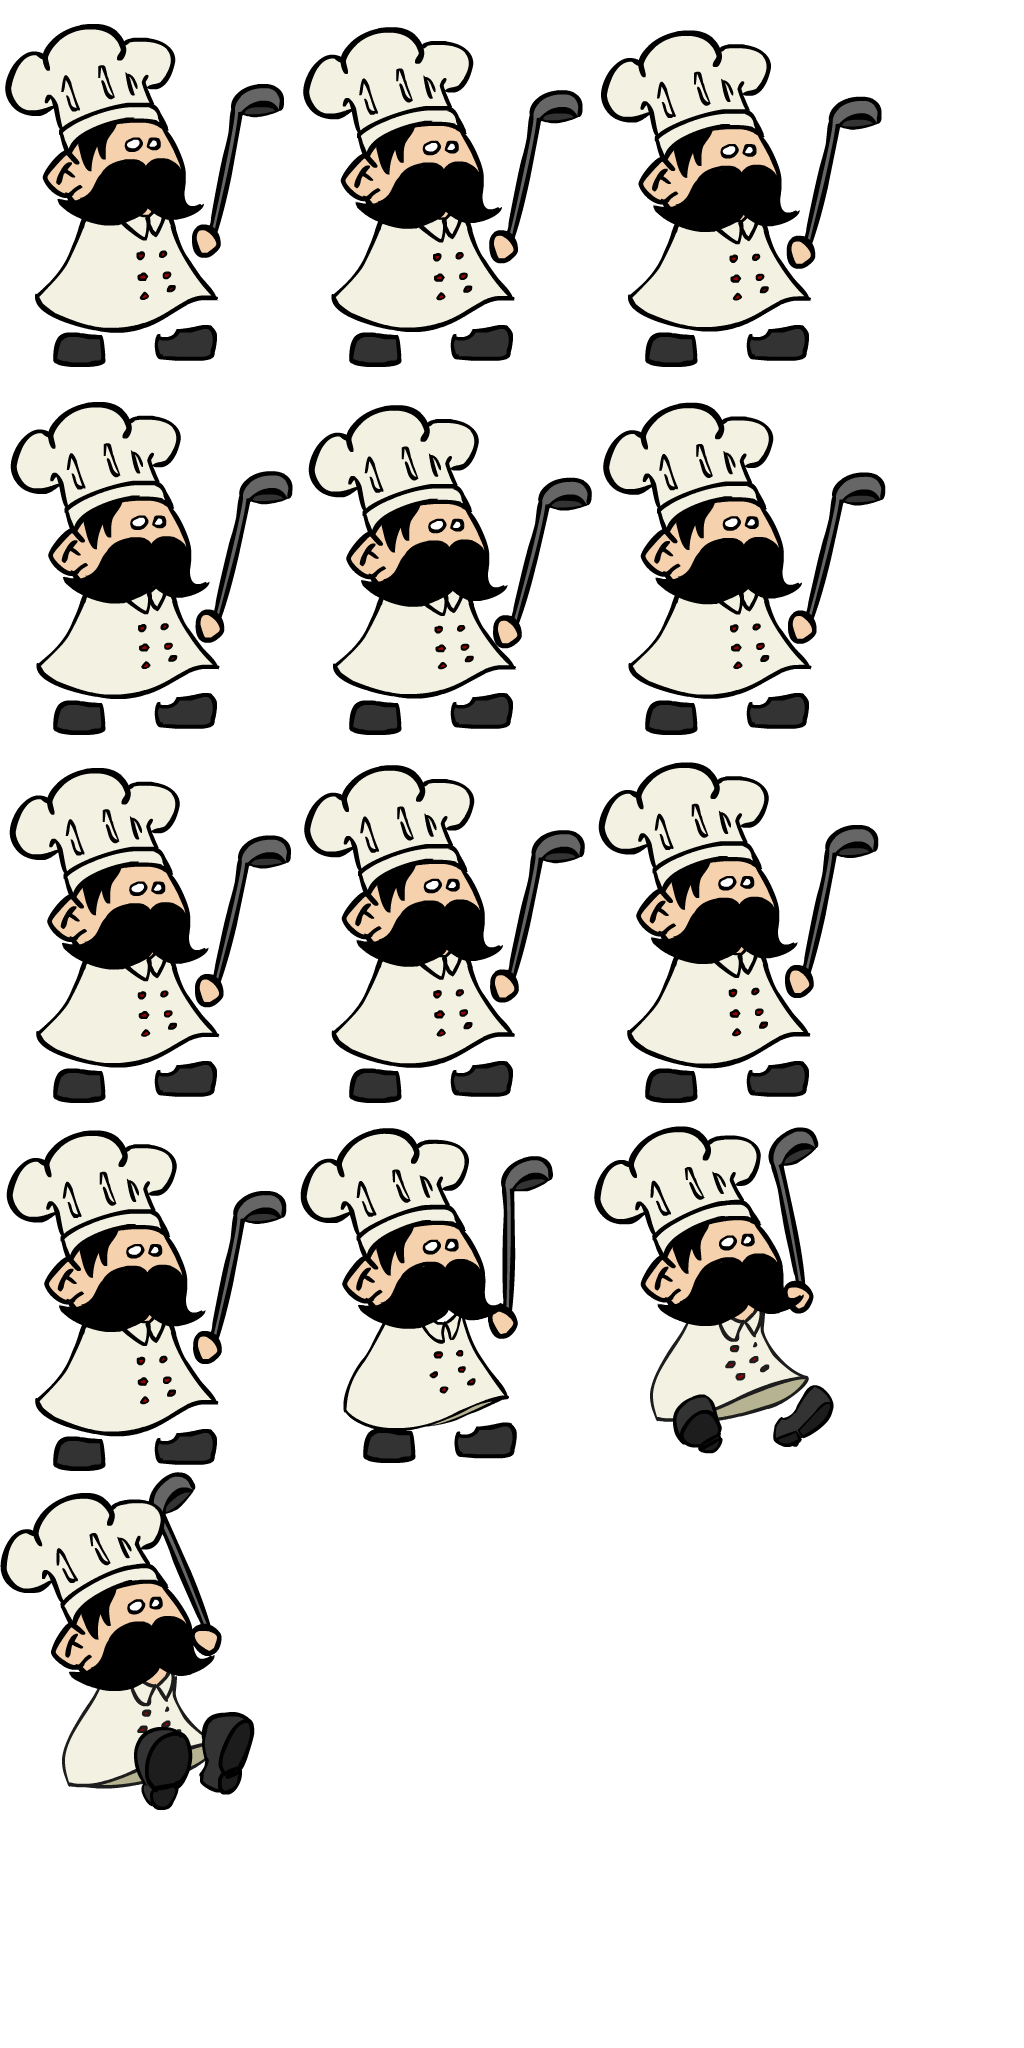
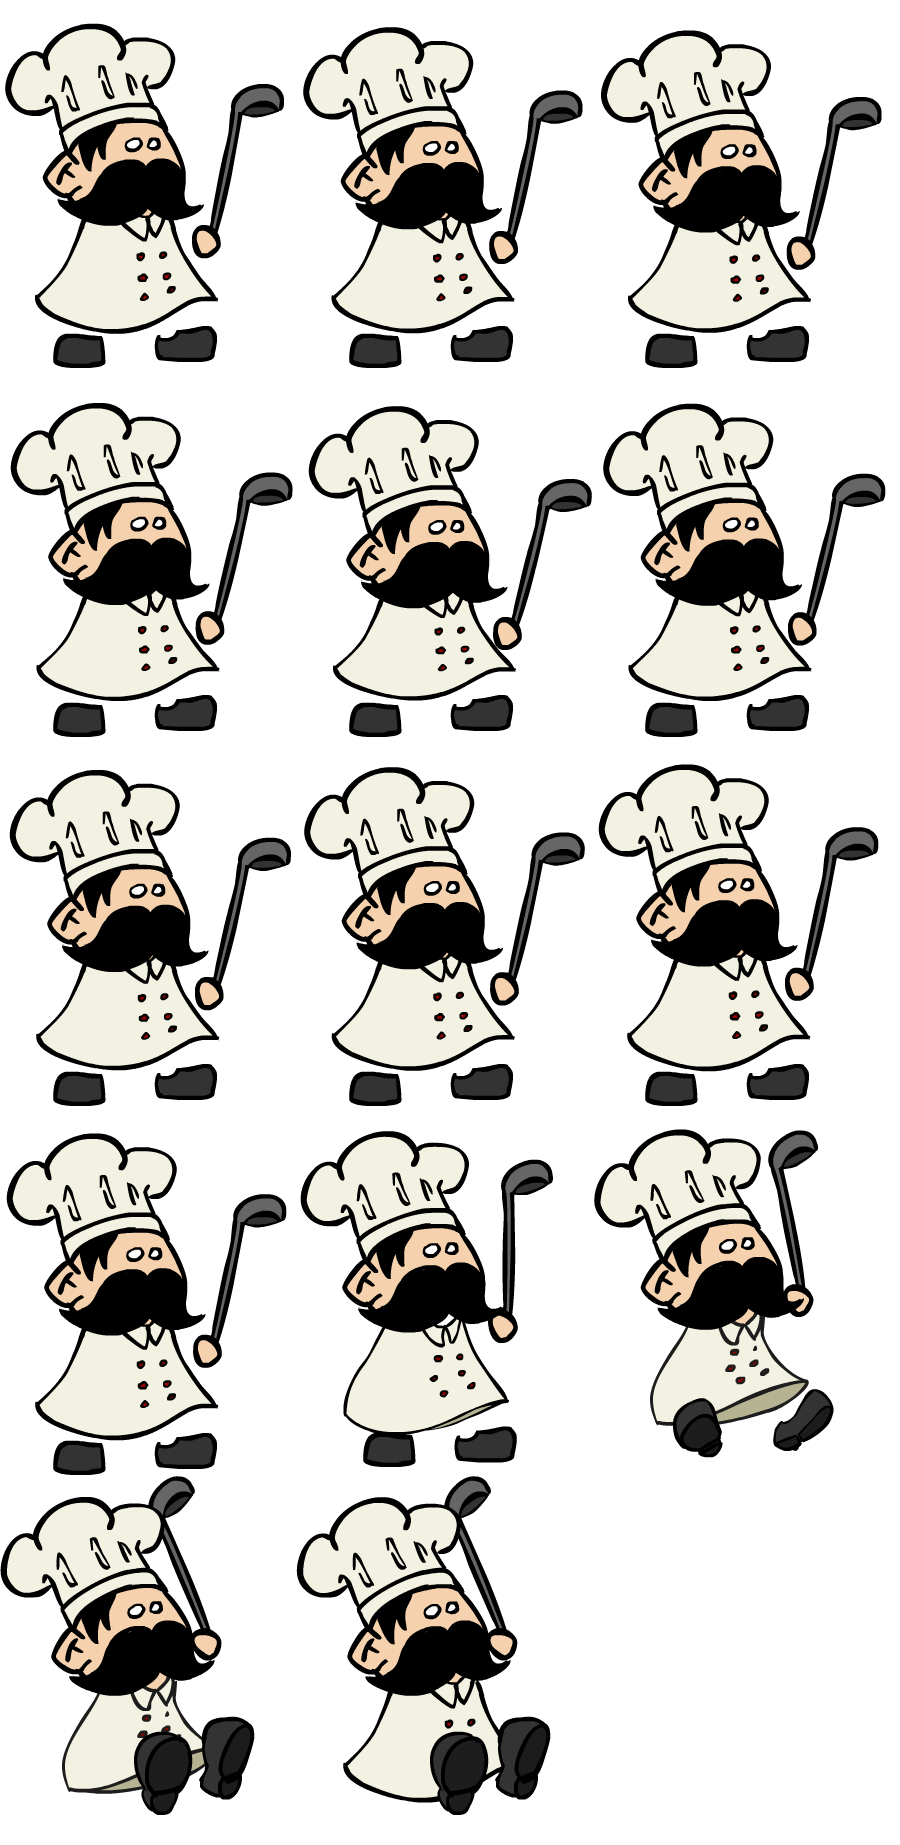
resize du sheet

diff --git a/Artwork/Perso_chef.js b/Artwork/Perso_chef.js
@@ -2,7 +2,7 @@
 Symbol_1_instance_1 = function() {
 	this.initialize();
 }
-Symbol_1_instance_1._SpriteSheet = new createjs.SpriteSheet({images: ["Perso_chef.png"], frames: [[0,0,296,368,0,133.25,62.85],[296,0,296,368,0,133.25,62.85],[592,0,296,368,0,133.25,62.85],[0,368,296,368,0,133.25,62.85],[296,368,296,368,0,133.25,62.85],[592,368,296,368,0,133.25,62.85],[0,736,296,368,0,133.25,62.85],[296,736,296,368,0,133.25,62.85],[592,736,296,368,0,133.25,62.85],[0,1104,296,368,0,133.25,62.85],[296,1104,296,368,0,133.25,62.85],[592,1104,296,368,0,133.25,62.85],[0,1472,296,368,0,133.25,62.85]]});
+Symbol_1_instance_1._SpriteSheet = new createjs.SpriteSheet({images: ["Perso_chef.png"], frames: [[0,0,296,369,0,133.3,62.9],[296,0,296,369,0,133.3,62.9],[592,0,296,369,0,133.3,62.9],[0,369,296,369,0,133.3,62.9],[296,369,296,369,0,133.3,62.9],[592,369,296,369,0,133.3,62.9],[0,738,296,369,0,133.3,62.9],[296,738,296,369,0,133.3,62.9],[592,738,296,369,0,133.3,62.9],[0,1107,296,369,0,133.3,62.9],[296,1107,296,369,0,133.3,62.9],[592,1107,296,369,0,133.3,62.9],[0,1476,296,369,0,133.3,62.9],[296,1476,296,369,0,133.3,62.9]]});
 var Symbol_1_instance_1_p = Symbol_1_instance_1.prototype = new createjs.BitmapAnimation();
 Symbol_1_instance_1_p.BitmapAnimation_initialize = Symbol_1_instance_1_p.initialize;
 Symbol_1_instance_1_p.initialize = function() {
